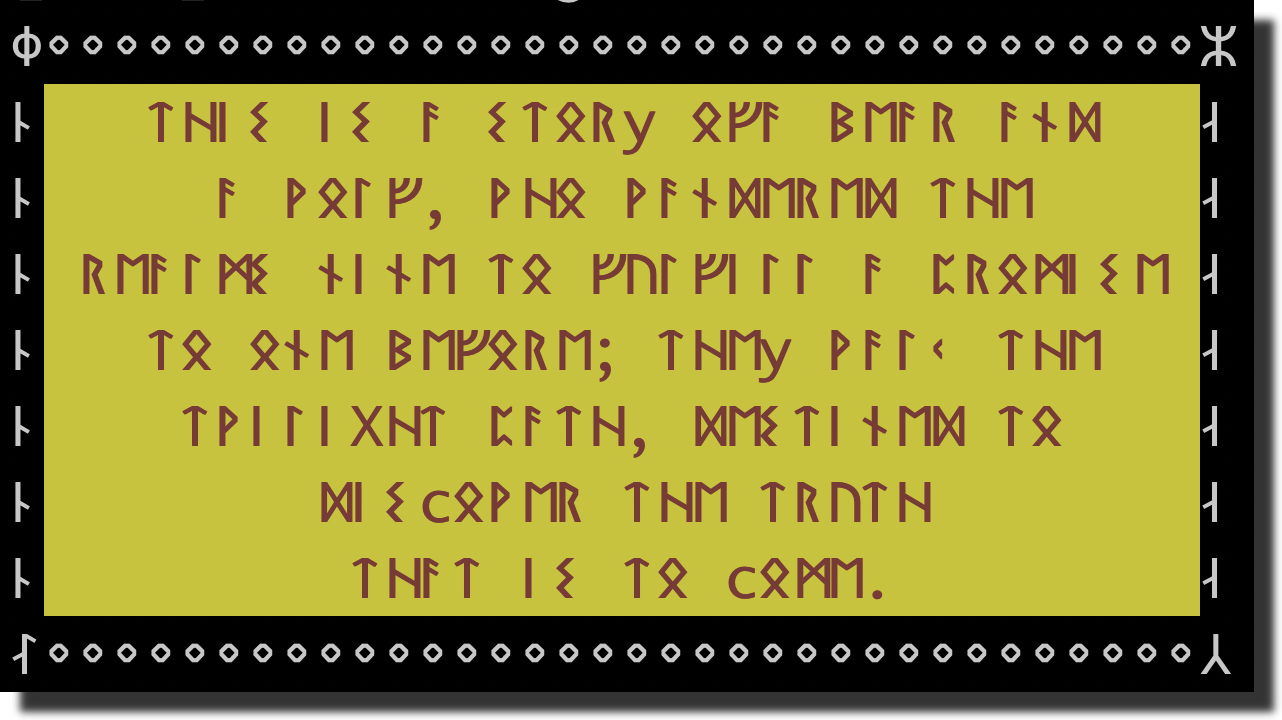
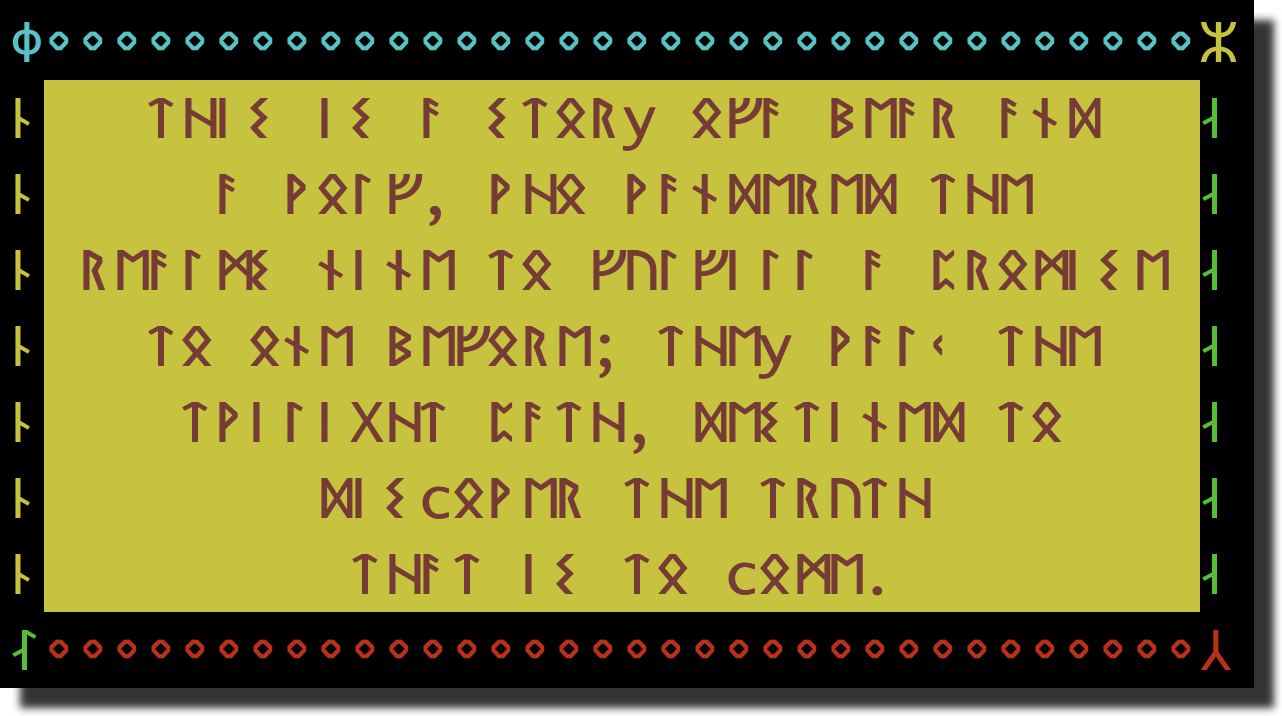
Updated runic sample - added colors to  borders and corners

diff --git a/samples/runic.cpp b/samples/runic.cpp
@@ -31,11 +31,19 @@ int main() {
       .corner_top_right("ᛯ")
       .corner_bottom_left("ᛮ")
       .corner_bottom_right("ᛸ")
+      .corner_top_left_color(Color::cyan)
+      .corner_top_right_color(Color::yellow)
+      .corner_bottom_left_color(Color::green)
+      .corner_bottom_right_color(Color::red)
       // Borders
       .border_top("ᛜ")
       .border_bottom("ᛜ")
       .border_left("ᚿ")
-      .border_right("ᛆ");
+      .border_right("ᛆ")
+      .border_left_color(Color::yellow)
+      .border_right_color(Color::green)
+      .border_top_color(Color::cyan)
+      .border_bottom_color(Color::red);
 
     std::cout << table << std::endl;
 }
